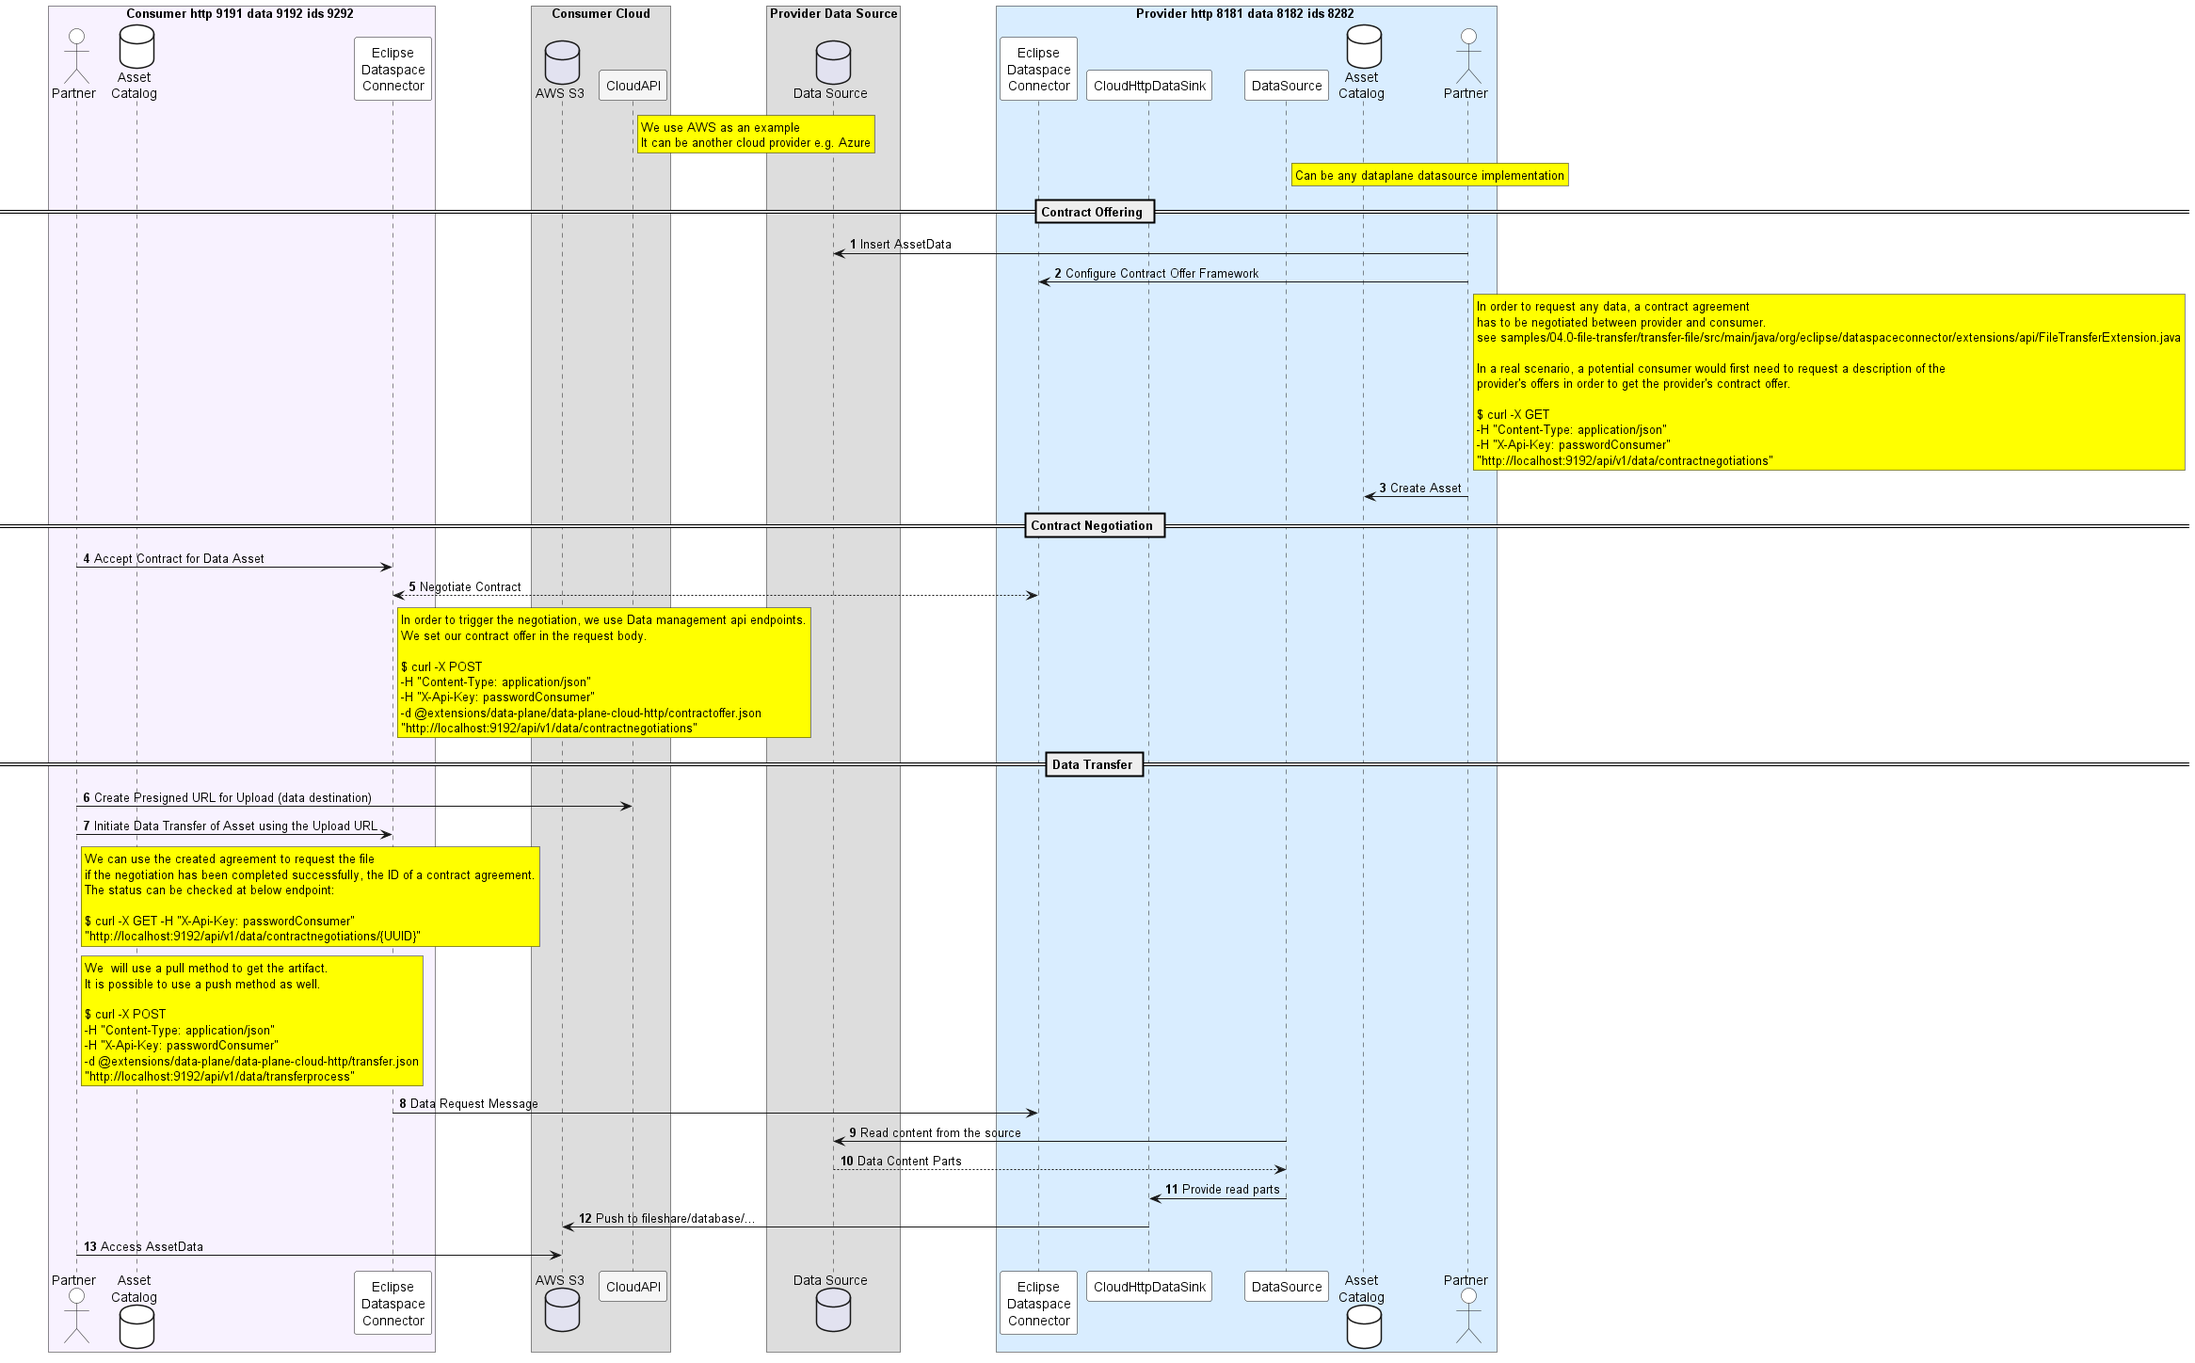
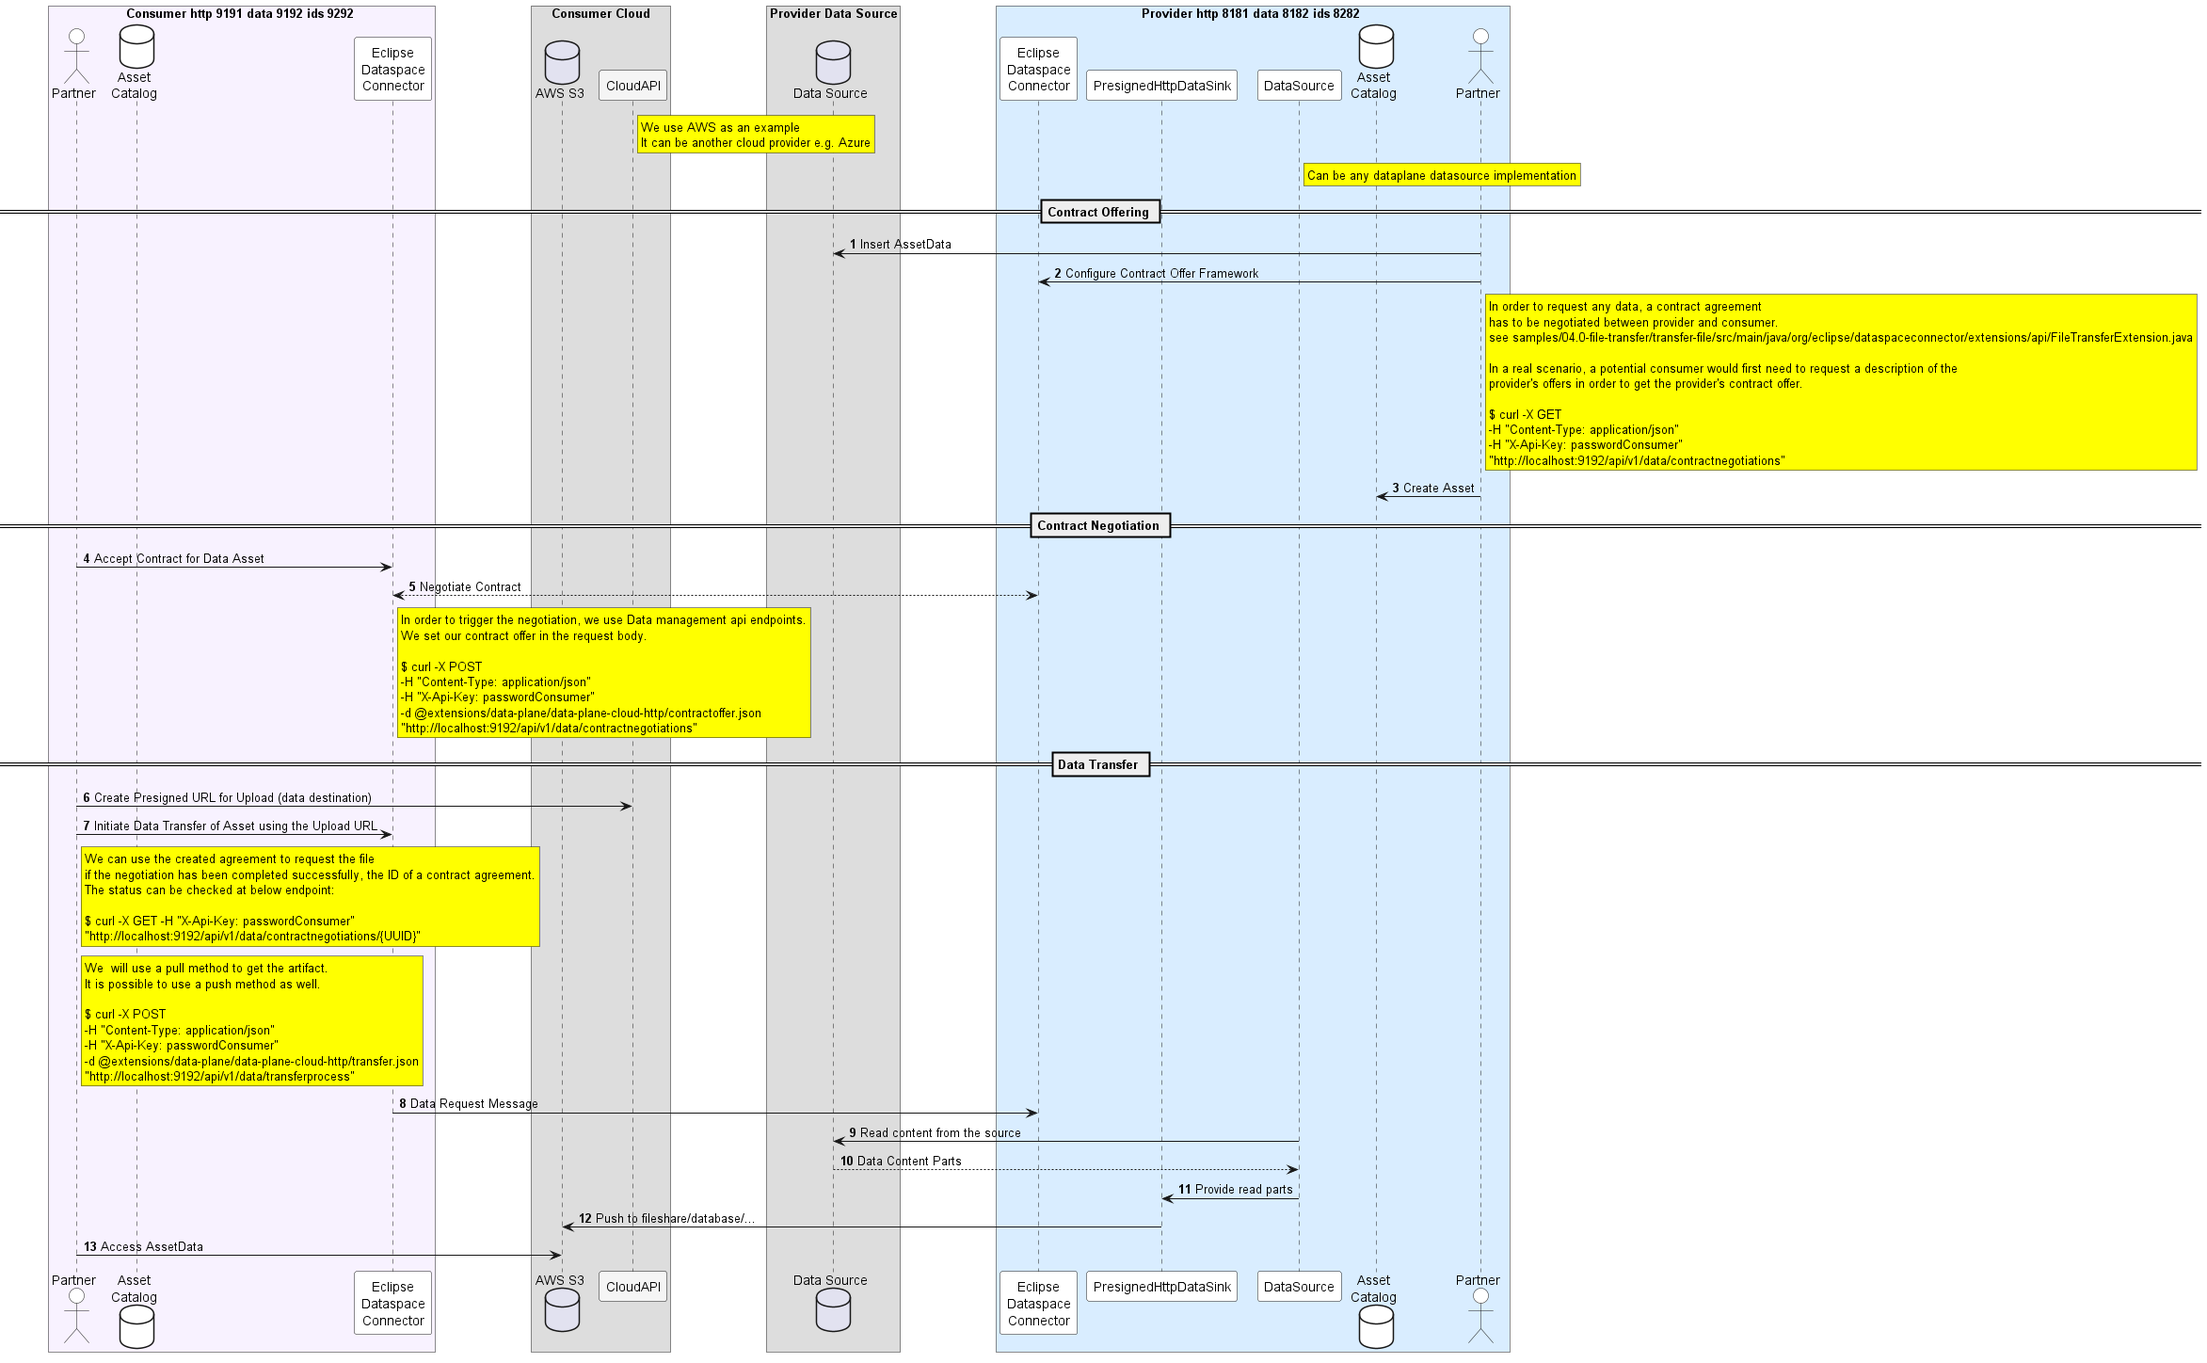
Feature: Add CloudHttpData extension - support additional header and rename

diff --git a/edc-extensions/data-plane-cloud-http/src/main/java/org/eclipse/dataspaceconnector/dataplane/cloud/http/pipeline/PresignedHttpDataSinkFactory.java b/edc-extensions/data-plane-cloud-http/src/main/java/org/eclipse/dataspaceconnector/dataplane/cloud/http/pipeline/PresignedHttpDataSinkFactory.java
@@ -21,8 +21,13 @@ import static org.eclipse.dataspaceconnector.spi.types.domain.http.HttpDataAddre
 import static org.eclipse.dataspaceconnector.spi.types.domain.http.HttpDataAddressSchema.AUTHENTICATION_KEY;
 import static org.eclipse.dataspaceconnector.spi.types.domain.http.HttpDataAddressSchema.ENDPOINT;
 
+import com.fasterxml.jackson.core.JsonProcessingException;
+import com.fasterxml.jackson.databind.ObjectMapper;
+import java.util.HashMap;
+import java.util.Map;
 import java.util.concurrent.ExecutorService;
 import okhttp3.OkHttpClient;
+import org.eclipse.dataspaceconnector.common.string.StringUtils;
 import org.eclipse.dataspaceconnector.dataplane.spi.pipeline.DataSink;
 import org.eclipse.dataspaceconnector.dataplane.spi.pipeline.DataSinkFactory;
 import org.eclipse.dataspaceconnector.spi.EdcException;
@@ -33,29 +38,35 @@ import org.eclipse.dataspaceconnector.spi.types.domain.transfer.DataFlowRequest;
 import org.jetbrains.annotations.NotNull;
 
 /**
- * Instantiates {@link CloudHttpDataSink}s for requests whose source data type is {@link
+ * Instantiates {@link PresignedHttpDataSink}s for requests whose source data type is {@link
  * HttpDataAddressSchema#TYPE}.
  *
  * <p>Note: there is support only for 1 partition at this time - this means it cannot handle big
  * files upload primarily due to memory constraints
  */
-public class CloudHttpDataSinkFactory implements DataSinkFactory {
+public class PresignedHttpDataSinkFactory implements DataSinkFactory {
   private static final int ONE_PARTITION = 1;
 
   private final OkHttpClient httpClient;
   private final ExecutorService executorService;
   private final Monitor monitor;
+  private final ObjectMapper mapper;
 
-  public CloudHttpDataSinkFactory(
-      OkHttpClient httpClient, ExecutorService executorService, Monitor monitor) {
+  public PresignedHttpDataSinkFactory(
+      OkHttpClient httpClient,
+      ObjectMapper mapper,
+      ExecutorService executorService,
+      Monitor monitor) {
     this.httpClient = httpClient;
     this.executorService = executorService;
     this.monitor = monitor;
+    this.mapper = mapper;
   }
 
   @Override
   public boolean canHandle(DataFlowRequest request) {
-    return CloudHttpDataAddressSchema.TYPE.equals(request.getDestinationDataAddress().getType());
+    return PresignedHttpDataAddressSchema.TYPE.equals(
+        request.getDestinationDataAddress().getType());
   }
 
   @Override
@@ -70,6 +81,7 @@ public class CloudHttpDataSinkFactory implements DataSinkFactory {
   @Override
   public DataSink createSink(DataFlowRequest request) {
     var dataAddress = request.getDestinationDataAddress();
+    var additionalHeaders = dataAddress.getProperty("additionalHeaders");
     var requestId = request.getId();
     var endpoint = dataAddress.getProperty(ENDPOINT);
     if (endpoint == null) {
@@ -79,7 +91,7 @@ public class CloudHttpDataSinkFactory implements DataSinkFactory {
     var authKey = dataAddress.getProperty(AUTHENTICATION_KEY);
     var authCode = dataAddress.getProperty(AUTHENTICATION_CODE);
 
-    return CloudHttpDataSink.Builder.newInstance()
+    return PresignedHttpDataSink.Builder.newInstance()
         .endpoint(endpoint)
         .requestId(requestId)
         .partitionSize(ONE_PARTITION)
@@ -88,6 +100,18 @@ public class CloudHttpDataSinkFactory implements DataSinkFactory {
         .httpClient(httpClient)
         .executorService(executorService)
         .monitor(monitor)
+        .additionalHeaders(makeAdditionalHeaders(additionalHeaders))
         .build();
+  }
+
+  private Map<String, String> makeAdditionalHeaders(String additionalHeaders) {
+    try {
+      return mapper.readValue(
+          StringUtils.isNullOrBlank(additionalHeaders) ? "" : additionalHeaders, Map.class);
+    } catch (JsonProcessingException e) {
+      monitor.severe("Failed to set additional headers from " + additionalHeaders, e);
+    }
+
+    return new HashMap<>();
   }
 }

diff --git a/edc-extensions/data-plane-cloud-http/src/test/java/org/eclipse/dataspaceconnector/dataplane/cloud/http/pipeline/PresignedHttpDataSinkFactoryTest.java b/edc-extensions/data-plane-cloud-http/src/test/java/org/eclipse/dataspaceconnector/dataplane/cloud/http/pipeline/PresignedHttpDataSinkFactoryTest.java
@@ -28,6 +28,7 @@ import static org.mockito.Mockito.mock;
 import static org.mockito.Mockito.verify;
 import static org.mockito.Mockito.when;
 
+import com.fasterxml.jackson.databind.ObjectMapper;
 import java.io.ByteArrayInputStream;
 import java.io.IOException;
 import java.util.concurrent.ExecutionException;
@@ -42,13 +43,13 @@ import org.eclipse.dataspaceconnector.spi.types.domain.DataAddress;
 import org.junit.jupiter.api.BeforeEach;
 import org.junit.jupiter.api.Test;
 
-class CloudHttpDataSinkFactoryTest {
-  private CloudHttpDataSinkFactory factory;
+class PresignedHttpDataSinkFactoryTest {
+  private PresignedHttpDataSinkFactory factory;
   private OkHttpClient httpClient;
 
   @Test
   void verifyCanHandle() {
-    var httpRequest = createRequest(CloudHttpDataAddressSchema.TYPE).build();
+    var httpRequest = createRequest(PresignedHttpDataAddressSchema.TYPE).build();
     var nonHttpRequest = createRequest("Unknown").build();
 
     assertThat(factory.canHandle(httpRequest)).isTrue();
@@ -60,10 +61,12 @@ class CloudHttpDataSinkFactoryTest {
     var dataAddress =
         DataAddress.Builder.newInstance()
             .property(ENDPOINT, "http://example.com")
-            .type(CloudHttpDataAddressSchema.TYPE)
+            .type(PresignedHttpDataAddressSchema.TYPE)
             .build();
     var validRequest =
-        createRequest(CloudHttpDataAddressSchema.TYPE).destinationDataAddress(dataAddress).build();
+        createRequest(PresignedHttpDataAddressSchema.TYPE)
+            .destinationDataAddress(dataAddress)
+            .build();
     assertThat(factory.validate(validRequest).succeeded()).isTrue();
 
     var missingEndpointRequest = createRequest("Unknown").build();
@@ -75,10 +78,12 @@ class CloudHttpDataSinkFactoryTest {
     var dataAddress =
         DataAddress.Builder.newInstance()
             .property(ENDPOINT, "http://example.com")
-            .type(CloudHttpDataAddressSchema.TYPE)
+            .type(PresignedHttpDataAddressSchema.TYPE)
             .build();
     var validRequest =
-        createRequest(CloudHttpDataAddressSchema.TYPE).destinationDataAddress(dataAddress).build();
+        createRequest(PresignedHttpDataAddressSchema.TYPE)
+            .destinationDataAddress(dataAddress)
+            .build();
     var missingEndpointRequest = createRequest("Unknown").build();
 
     assertThat(factory.createSink(validRequest)).isNotNull();
@@ -90,14 +95,16 @@ class CloudHttpDataSinkFactoryTest {
       throws InterruptedException, ExecutionException, IOException {
     var dataAddress =
         DataAddress.Builder.newInstance()
-            .type(CloudHttpDataAddressSchema.TYPE)
+            .type(PresignedHttpDataAddressSchema.TYPE)
             .property(ENDPOINT, "http://example.com")
             .property(AUTHENTICATION_KEY, "x-api-key")
             .property(AUTHENTICATION_CODE, "123")
             .build();
 
     var validRequest =
-        createRequest(CloudHttpDataAddressSchema.TYPE).destinationDataAddress(dataAddress).build();
+        createRequest(PresignedHttpDataAddressSchema.TYPE)
+            .destinationDataAddress(dataAddress)
+            .build();
 
     var call = mock(Call.class);
     when(call.execute()).thenReturn(createHttpResponse().build());
@@ -126,7 +133,7 @@ class CloudHttpDataSinkFactoryTest {
   void setUp() {
     httpClient = mock(OkHttpClient.class);
     factory =
-        new CloudHttpDataSinkFactory(
-            httpClient, Executors.newFixedThreadPool(1), mock(Monitor.class));
+        new PresignedHttpDataSinkFactory(
+            httpClient, new ObjectMapper(), Executors.newFixedThreadPool(1), mock(Monitor.class));
   }
 }

diff --git a/edc-extensions/data-plane-cloud-http/src/main/java/org/eclipse/dataspaceconnector/dataplane/cloud/http/pipeline/PresignedHttpDataSink.java b/edc-extensions/data-plane-cloud-http/src/main/java/org/eclipse/dataspaceconnector/dataplane/cloud/http/pipeline/PresignedHttpDataSink.java
@@ -21,7 +21,9 @@ import static org.eclipse.dataspaceconnector.spi.response.ResponseStatus.ERROR_R
 
 import java.io.IOException;
 import java.io.InputStream;
+import java.util.HashMap;
 import java.util.List;
+import java.util.Map;
 import java.util.Objects;
 import okhttp3.OkHttpClient;
 import okhttp3.Request;
@@ -31,11 +33,12 @@ import org.eclipse.dataspaceconnector.dataplane.spi.pipeline.ParallelSink;
 import org.eclipse.dataspaceconnector.spi.response.StatusResult;
 
 /** Writes data in a streaming fashion to an HTTP endpoint. */
-public class CloudHttpDataSink extends ParallelSink {
+public class PresignedHttpDataSink extends ParallelSink {
   private String authKey;
   private String authCode;
   private String endpoint;
   private OkHttpClient httpClient;
+  private Map<String, String> additionalHeaders = new HashMap<>();
 
   /** Sends the parts to the destination endpoint using an HTTP POST. */
   @Override
@@ -44,6 +47,10 @@ public class CloudHttpDataSink extends ParallelSink {
       var requestBuilder = new Request.Builder();
       if (authKey != null) {
         requestBuilder.header(authKey, authCode);
+      }
+
+      if (additionalHeaders != null) {
+        additionalHeaders.forEach(requestBuilder::header);
       }
 
       monitor.debug(() -> format("Transferring  %s  to endpoint %s ", part.name(), endpoint));
@@ -80,9 +87,9 @@ public class CloudHttpDataSink extends ParallelSink {
     return StatusResult.success();
   }
 
-  private CloudHttpDataSink() {}
+  private PresignedHttpDataSink() {}
 
-  public static class Builder extends ParallelSink.Builder<Builder, CloudHttpDataSink> {
+  public static class Builder extends ParallelSink.Builder<Builder, PresignedHttpDataSink> {
 
     public static Builder newInstance() {
       return new Builder();
@@ -108,6 +115,11 @@ public class CloudHttpDataSink extends ParallelSink {
       return this;
     }
 
+    public Builder additionalHeaders(Map<String, String> additionalHeaders) {
+      sink.additionalHeaders = additionalHeaders;
+      return this;
+    }
+
     @Override
     protected void validate() {
       Objects.requireNonNull(sink.endpoint, "endpoint");
@@ -121,7 +133,7 @@ public class CloudHttpDataSink extends ParallelSink {
     }
 
     private Builder() {
-      super(new CloudHttpDataSink());
+      super(new PresignedHttpDataSink());
     }
   }
 }

diff --git a/edc-extensions/data-plane-cloud-http/src/main/java/org/eclipse/dataspaceconnector/dataplane/cloud/http/PresignedHttpDataPlaneHttpExtension.java b/edc-extensions/data-plane-cloud-http/src/main/java/org/eclipse/dataspaceconnector/dataplane/cloud/http/PresignedHttpDataPlaneHttpExtension.java
@@ -16,9 +16,10 @@
 
 package org.eclipse.dataspaceconnector.dataplane.cloud.http;
 
+import com.fasterxml.jackson.databind.ObjectMapper;
 import net.jodah.failsafe.RetryPolicy;
 import okhttp3.OkHttpClient;
-import org.eclipse.dataspaceconnector.dataplane.cloud.http.pipeline.CloudHttpDataSinkFactory;
+import org.eclipse.dataspaceconnector.dataplane.cloud.http.pipeline.PresignedHttpDataSinkFactory;
 import org.eclipse.dataspaceconnector.dataplane.spi.pipeline.DataTransferExecutorServiceContainer;
 import org.eclipse.dataspaceconnector.dataplane.spi.pipeline.PipelineService;
 import org.eclipse.dataspaceconnector.spi.security.Vault;
@@ -27,7 +28,7 @@ import org.eclipse.dataspaceconnector.spi.system.ServiceExtension;
 import org.eclipse.dataspaceconnector.spi.system.ServiceExtensionContext;
 
 /** Provides support for reading data from an HTTP endpoint and sending data to an HTTP endpoint. */
-public class CloudDataPlaneHttpExtension implements ServiceExtension {
+public class PresignedHttpDataPlaneHttpExtension implements ServiceExtension {
 
   @Inject private OkHttpClient httpClient;
 
@@ -51,7 +52,8 @@ public class CloudDataPlaneHttpExtension implements ServiceExtension {
     var monitor = context.getMonitor();
 
     var sinkFactory =
-        new CloudHttpDataSinkFactory(httpClient, executorContainer.getExecutorService(), monitor);
+        new PresignedHttpDataSinkFactory(
+            httpClient, new ObjectMapper(), executorContainer.getExecutorService(), monitor);
     pipelineService.registerFactory(sinkFactory);
   }
 }

diff --git a/edc-extensions/data-plane-cloud-http/src/test/java/org/eclipse/dataspaceconnector/dataplane/cloud/http/pipeline/PresignedHttpDataSourceToDataSinkTests.java b/edc-extensions/data-plane-cloud-http/src/test/java/org/eclipse/dataspaceconnector/dataplane/cloud/http/pipeline/PresignedHttpDataSourceToDataSinkTests.java
@@ -44,7 +44,7 @@ import org.junit.jupiter.params.provider.Arguments;
 import org.junit.jupiter.params.provider.MethodSource;
 import org.mockito.invocation.InvocationOnMock;
 
-class CloudDataSourceToDataSinkTests {
+class PresignedHttpDataSourceToDataSinkTests {
   private static final String NULL_ENDPOINT = "https://example.com/sink";
 
   private ExecutorService executor;
@@ -76,7 +76,7 @@ class CloudDataSourceToDataSinkTests {
     var sinkClient = testOkHttpClient().newBuilder().addInterceptor(interceptor).build();
 
     var dataSink =
-        CloudHttpDataSink.Builder.newInstance()
+        PresignedHttpDataSink.Builder.newInstance()
             .endpoint("https://example.com/sink")
             .requestId("1")
             .httpClient(sinkClient)
@@ -117,7 +117,7 @@ class CloudDataSourceToDataSinkTests {
     var sinkClient = mock(OkHttpClient.class);
 
     var dataSink =
-        CloudHttpDataSink.Builder.newInstance()
+        PresignedHttpDataSink.Builder.newInstance()
             .endpoint("https://example.com/sink")
             .requestId("1")
             .httpClient(sinkClient)
@@ -161,7 +161,7 @@ class CloudDataSourceToDataSinkTests {
     var sinkClient = testOkHttpClient().newBuilder().addInterceptor(sinkInterceptor).build();
 
     var dataSink =
-        CloudHttpDataSink.Builder.newInstance()
+        PresignedHttpDataSink.Builder.newInstance()
             .endpoint(NULL_ENDPOINT)
             .requestId("1")
             .httpClient(sinkClient)

diff --git a/edc-extensions/data-plane-cloud-http/src/main/java/org/eclipse/dataspaceconnector/dataplane/cloud/http/pipeline/PresignedHttpDataAddressSchema.java b/edc-extensions/data-plane-cloud-http/src/main/java/org/eclipse/dataspaceconnector/dataplane/cloud/http/pipeline/PresignedHttpDataAddressSchema.java
@@ -16,7 +16,7 @@
 
 package org.eclipse.dataspaceconnector.dataplane.cloud.http.pipeline;
 
-public interface CloudHttpDataAddressSchema {
+public final class PresignedHttpDataAddressSchema {
   /** The HTTP transfer type. */
-  String TYPE = "CloudHttpData";
+  public static final String TYPE = "PresignedHttpData";
 }

diff --git a/edc-extensions/data-plane-cloud-http/README.md b/edc-extensions/data-plane-cloud-http/README.md
@@ -1,4 +1,4 @@
-# Data Plane Cloud HTTP extension
+# Data Plane Presigned Endpoint HTTP extension
 
 This extension provides support for sending data sourced from an HTTP endpoint and putting data to a cloud presigned url based HTTP endpoint when working with 
 small files (< 50MB) and the cloud access is wrapped (therefore no direct access to the cloud API). By
@@ -10,5 +10,10 @@ single part - note that the multiplart request need to be done first and the mul
 
 Note that Azure Object Storage or S3 extensions should be preferred to the current extensions when performing large data
 transfers as it supports more scalable parallelization; note that they require the cloud credentials to be at hand.
+
+Note that the presigned HTTP extension offers also the option of specifying additional headers (due to EDC limitation only as string) e.g. Azure authorization as header values like 
+```json
+"additionalHeaders" : "{\"Content-Type\" : \"application/octet-stream\",\"x-ms-blob-type\": \"BlockBlob\"}"
+```
 
 ![The flow](docs/flow.png)
